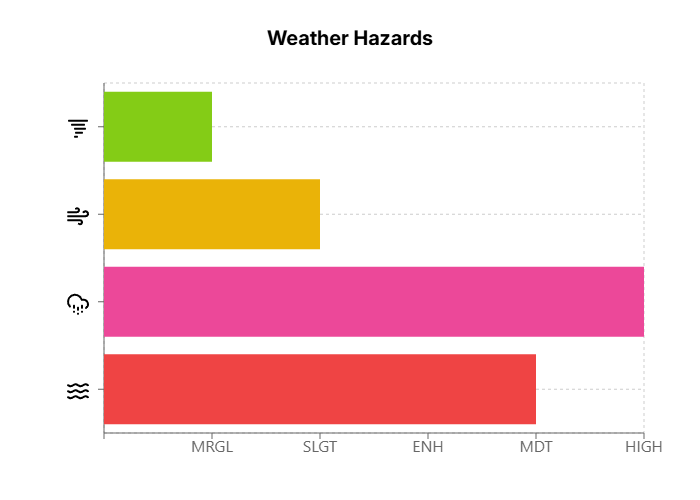
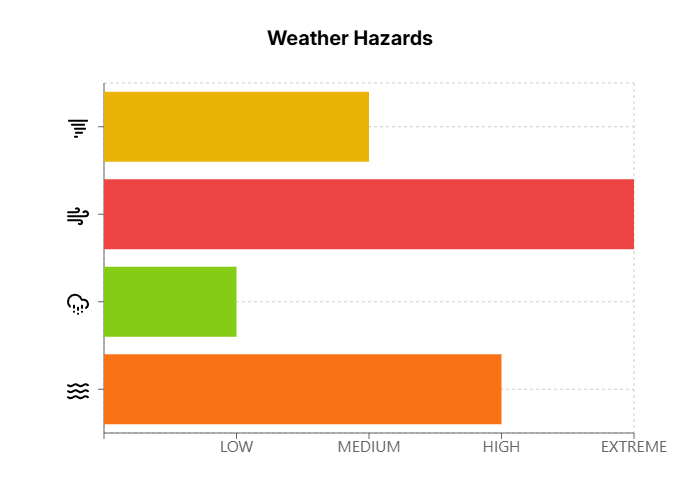
Updated threat categories for threatcast infographic (#29)
* Updated threatcast graphic

* Updated example threatcast graphic to match new category update

diff --git a/app/components/Threatcast.tsx b/app/components/Threatcast.tsx
@@ -16,16 +16,14 @@ const colorMapping: Record<number, string> = {
   2: '#EAB308',
   3: '#F97316',
   4: '#EF4444',
-  5: '#EC4899',
 }
 
 const severityLabels: Record<string, number> = {
-  None: 0,
-  MRGL: 1,
-  SLGT: 2,
-  ENH: 3,
-  MDT: 4,
-  HIGH: 5,
+  NONE: 0,
+  LOW: 1,
+  MEDIUM: 2,
+  HIGH: 3,
+  EXTREME: 4,
 }
 
 const categories: string[] = ['Tornadoes', 'Wind', 'Hail', 'Flooding']
@@ -33,15 +31,13 @@ const categories: string[] = ['Tornadoes', 'Wind', 'Hail', 'Flooding']
 const formatYAxis = (value: number) => {
   switch (value) {
     case 1:
-      return 'MRGL'
+      return 'LOW'
     case 2:
-      return 'SLGT'
+      return 'MEDIUM'
     case 3:
-      return 'ENH'
-    case 4:
-      return 'MDT'
-    case 5:
       return 'HIGH'
+    case 4:
+      return 'EXTREME'
     default:
       return ''
   }
@@ -69,10 +65,10 @@ const renderCustomAxisTick = ({ x, y, payload }) => {
 
 const Threatcast: React.FC = ({ threatRef }) => {
   const [threatLevels, setThreatLevels] = useState({
-    Tornadoes: 'None',
-    Wind: 'None',
-    Hail: 'None',
-    Flooding: 'None',
+    Tornadoes: 'NONE',
+    Wind: 'NONE',
+    Hail: 'NONE',
+    Flooding: 'NONE',
   })
 
   // Generate the threatData dynamically based on threatLevels
@@ -132,7 +128,7 @@ const Threatcast: React.FC = ({ threatRef }) => {
               data={threatData}
               margin={{
                 top: 15,
-                right: 30,
+                right: 40,
                 left: 20,
                 bottom: 5,
               }}
@@ -141,7 +137,7 @@ const Threatcast: React.FC = ({ threatRef }) => {
               <XAxis
                 type='number'
                 interval={0}
-                tickCount={6}
+                tickCount={5}
                 tickFormatter={formatYAxis}
                 ticks={[]}
                 allowDecimals={false}
